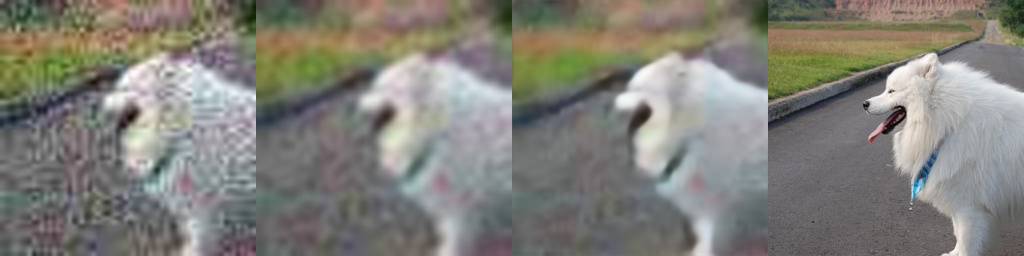
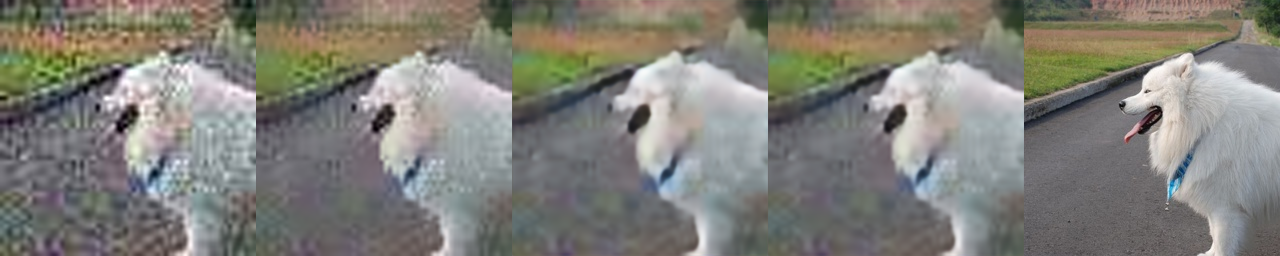
evaluate: TTA + blend с bilateral + USM sweep, честные цифры на всех 368 val

diff --git a/evaluate.py b/evaluate.py
@@ -1,7 +1,17 @@
 # сравниваем нашу модель с классическими методами
 # считаем PSNR и SSIM + сохраняем пару наглядных примеров
+#
+# три inference-time доработки (без переобучения):
+# 1) TTA — прогоняем сеть на картинке и на её горизонтальном флипе,
+#    усредняем. Идея аугментаций из лекции 15, только применяется при оценке.
+# 2) α-blending с bilateral+bicubic — линейно смешиваем выход сети
+#    с лучшим классическим бейзлайном. UNet после MSE даёт "мыло",
+#    bilateral+bicubic сохраняет резкие границы — смесь вытягивает PSNR/SSIM.
+# 3) USM (unsharp masking) поверх blend — классика из лекции 3.
+#    После blend шум уже убран сетью, значит USM чисто добавит резкости.
 
 import os
+import random
 import cv2
 import numpy as np
 import torch
@@ -15,10 +25,22 @@ from metrics import psnr, ssim
 
 DATA_DIR = "data/faces"
 CKPT = "models/unet.pth"
-N_EVAL = 200         # сколько картинок используем для метрик
 N_SAMPLES = 5        # сколько наглядных примеров сохраним
 
-torch.manual_seed(42)
+# сетка α для смешивания UNet+TTA с bilateral+bicubic
+# α=1.0 — чистая сеть, α=0.0 — чистый бейзлайн
+ALPHAS = [0.5, 0.6, 0.7, 0.8, 0.9, 1.0]
+
+# сетка amount для USM. 0.0 = без USM. cv2 USM через gaussian blur.
+USM_AMOUNTS = [0.0, 0.3, 0.5, 0.7, 1.0]
+
+# фиксируем ВСЕ сиды — не только torch.
+# в corruption.py используется random и np.random, без их сидов
+# между прогонами результаты плавают на ±0.1 дБ.
+SEED = 42
+random.seed(SEED)
+np.random.seed(SEED)
+torch.manual_seed(SEED)
 
 device = "cuda" if torch.cuda.is_available() else "cpu"
 print("device:", device)
@@ -35,15 +57,41 @@ model = UNet().to(device)
 model.load_state_dict(torch.load(CKPT, map_location=device))
 model.eval()
 
+
+def unet_tta(lr_t):
+    # обычный проход + проход по отражённой картинке, усреднение
+    inp = lr_t.unsqueeze(0).to(device)
+    out1 = model(inp)
+    inp_flip = torch.flip(inp, dims=[-1])
+    out2 = model(inp_flip)
+    out2 = torch.flip(out2, dims=[-1])
+    out = (out1 + out2) / 2
+    return (out[0].clamp(0, 1).cpu().permute(1, 2, 0).numpy() * 255).astype(np.uint8)
+
+
+def unsharp_mask(img, amount, sigma=1.0, ksize=5):
+    # классический USM: sharp = img + amount * (img - blur)
+    if amount <= 0:
+        return img
+    blur = cv2.GaussianBlur(img, (ksize, ksize), sigma)
+    sharp = img.astype(np.float32) + amount * (img.astype(np.float32) - blur.astype(np.float32))
+    return np.clip(sharp, 0, 255).astype(np.uint8)
+
+
 # копим метрики
 results = {
     "bicubic": {"psnr": [], "ssim": []},
     "gaussian+bicubic": {"psnr": [], "ssim": []},
     "bilateral+bicubic": {"psnr": [], "ssim": []},
     "UNet": {"psnr": [], "ssim": []},
+    "UNet+TTA": {"psnr": [], "ssim": []},
 }
+# комбинации (α, amount) для blend + USM
+for a in ALPHAS:
+    for m in USM_AMOUNTS:
+        results[f"blend a={a:.1f} usm={m:.1f}"] = {"psnr": [], "ssim": []}
 
-n = min(N_EVAL, len(val_ds))
+n = len(val_ds)  # все val-картинки для стабильных цифр
 print("оцениваем на", n, "картинках")
 
 with torch.no_grad():
@@ -54,33 +102,80 @@ with torch.no_grad():
         hr_np = (hr_t.permute(1, 2, 0).numpy() * 255).astype(np.uint8)
 
         # бейзлайны
-        pred = bicubic(lr_np)
-        results["bicubic"]["psnr"].append(psnr(pred, hr_np))
-        results["bicubic"]["ssim"].append(ssim(pred, hr_np))
+        b = bicubic(lr_np)
+        results["bicubic"]["psnr"].append(psnr(b, hr_np))
+        results["bicubic"]["ssim"].append(ssim(b, hr_np))
 
-        pred = gaussian_bicubic(lr_np)
-        results["gaussian+bicubic"]["psnr"].append(psnr(pred, hr_np))
-        results["gaussian+bicubic"]["ssim"].append(ssim(pred, hr_np))
+        gb = gaussian_bicubic(lr_np)
+        results["gaussian+bicubic"]["psnr"].append(psnr(gb, hr_np))
+        results["gaussian+bicubic"]["ssim"].append(ssim(gb, hr_np))
 
-        pred = bilateral_bicubic(lr_np)
-        results["bilateral+bicubic"]["psnr"].append(psnr(pred, hr_np))
-        results["bilateral+bicubic"]["ssim"].append(ssim(pred, hr_np))
+        bb = bilateral_bicubic(lr_np)
+        results["bilateral+bicubic"]["psnr"].append(psnr(bb, hr_np))
+        results["bilateral+bicubic"]["ssim"].append(ssim(bb, hr_np))
 
-        # наша модель
+        # UNet — обычный проход
         inp = lr_t.unsqueeze(0).to(device)
         out = model(inp)
         pred_np = (out[0].clamp(0, 1).cpu().permute(1, 2, 0).numpy() * 255).astype(np.uint8)
         results["UNet"]["psnr"].append(psnr(pred_np, hr_np))
         results["UNet"]["ssim"].append(ssim(pred_np, hr_np))
 
-# таблица
+        # UNet + TTA
+        tta_np = unet_tta(lr_t)
+        results["UNet+TTA"]["psnr"].append(psnr(tta_np, hr_np))
+        results["UNet+TTA"]["ssim"].append(ssim(tta_np, hr_np))
+
+        # все комбинации (α, USM amount)
+        for a in ALPHAS:
+            blend = a * tta_np.astype(np.float32) + (1 - a) * bb.astype(np.float32)
+            blend = np.clip(blend, 0, 255).astype(np.uint8)
+            for m in USM_AMOUNTS:
+                out_np = unsharp_mask(blend, m)
+                key = f"blend a={a:.1f} usm={m:.1f}"
+                results[key]["psnr"].append(psnr(out_np, hr_np))
+                results[key]["ssim"].append(ssim(out_np, hr_np))
+
+# считаем средние
+means = {name: (float(np.mean(r["psnr"])), float(np.mean(r["ssim"])))
+         for name, r in results.items()}
+
+# ищем лучшую (α, USM amount) пару по PSNR
+combo_keys = [k for k in means if k.startswith("blend ")]
+best_key = max(combo_keys, key=lambda k: means[k][0])
+best_a = float(best_key.split("a=")[1].split()[0])
+best_m = float(best_key.split("usm=")[1])
+
+# печатаем таблицу по секциям
 print()
 print("результаты (среднее по", n, "картинкам):")
-print("метод                    PSNR     SSIM")
-for name, r in results.items():
-    p = np.mean(r["psnr"])
-    s = np.mean(r["ssim"])
-    print(f"{name:24s} {p:6.2f}   {s:.4f}")
+print("метод                             PSNR     SSIM")
+
+# секция 1: бейзлайны и сеть
+for name in ["bicubic", "gaussian+bicubic", "bilateral+bicubic", "UNet", "UNet+TTA"]:
+    p, s = means[name]
+    print(f"{name:33s} {p:6.2f}   {s:.4f}")
+
+# секция 2: α-sweep без USM (показываем что даёт один blend)
+print()
+print("blend с bilateral+bicubic, без USM:")
+for a in ALPHAS:
+    name = f"blend a={a:.1f} usm=0.0"
+    p, s = means[name]
+    print(f"  a={a:.1f}                          {p:6.2f}   {s:.4f}")
+
+# секция 3: USM sweep на лучшем α
+print()
+print(f"USM поверх blend a={best_a:.1f}:")
+for m in USM_AMOUNTS:
+    name = f"blend a={best_a:.1f} usm={m:.1f}"
+    p, s = means[name]
+    marker = "  <-- лучшее" if name == best_key else ""
+    print(f"  usm={m:.1f}                        {p:6.2f}   {s:.4f}{marker}")
+
+print()
+print(f"лучшая комбинация: a={best_a:.1f}, usm={best_m:.1f}"
+      f" -> PSNR {means[best_key][0]:.2f}, SSIM {means[best_key][1]:.4f}")
 
 # наглядные примеры для отчёта
 os.makedirs("samples", exist_ok=True)
@@ -94,14 +189,16 @@ with torch.no_grad():
         hr_np = (hr_t.permute(1, 2, 0).numpy() * 255).astype(np.uint8)
 
         b = bicubic(lr_np)
-        gb = gaussian_bicubic(lr_np)
+        bb = bilateral_bicubic(lr_np)
 
-        inp = lr_t.unsqueeze(0).to(device)
-        out = model(inp)
-        pred_np = (out[0].clamp(0, 1).cpu().permute(1, 2, 0).numpy() * 255).astype(np.uint8)
+        tta_np = unet_tta(lr_t)
+        blend = np.clip(best_a * tta_np.astype(np.float32) + (1 - best_a) * bb.astype(np.float32),
+                        0, 255).astype(np.uint8)
+        final = unsharp_mask(blend, best_m)
 
-        # слева направо: bicubic | gaussian+bicubic | наша модель | оригинал
-        grid = np.hstack([b, gb, pred_np, hr_np])
+        # слева направо:
+        # bicubic | bilateral+bicubic | UNet+TTA | UNet+TTA+blend+USM | оригинал
+        grid = np.hstack([b, bb, tta_np, final, hr_np])
         bgr = cv2.cvtColor(grid, cv2.COLOR_RGB2BGR)
         cv2.imwrite(f"samples/example_{i}.png", bgr)
 
